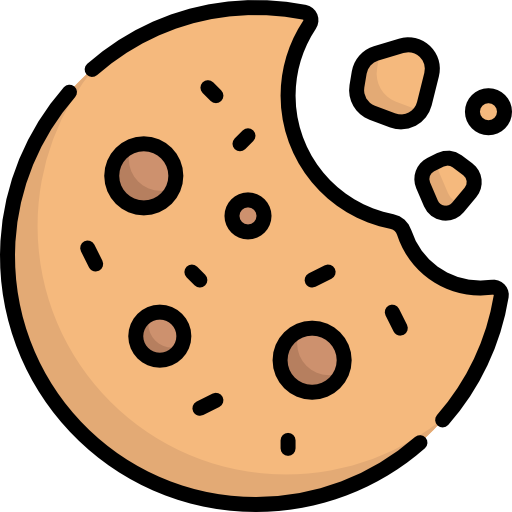
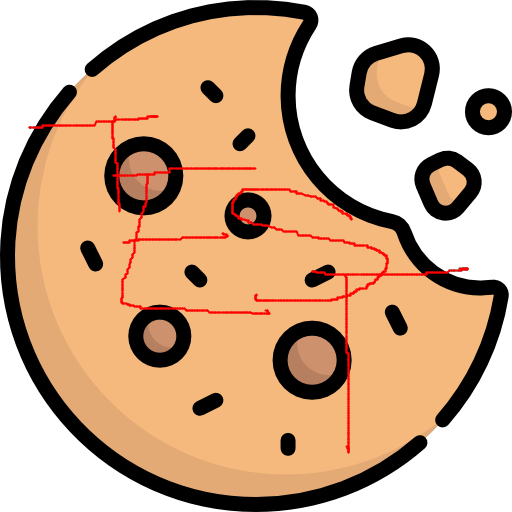
Resilient multi-day sync (retry/reconcile + honest reporting) and distinct TEST branding

diff --git a/tony-macro-tracker/frontend/index.html b/tony-macro-tracker/frontend/index.html
@@ -3,12 +3,12 @@
 <head>
 <meta charset="UTF-8">
 <meta name="viewport" content="width=device-width, initial-scale=1.0">
-<title>Macro Tracker</title>
+<title>Macro Tracker (TEST)</title>
 <link rel="manifest" href="/manifest.json">
-<meta name="theme-color" content="#7F77DD">
+<meta name="theme-color" content="#E8743B">
 <meta name="apple-mobile-web-app-capable" content="yes">
 <meta name="apple-mobile-web-app-status-bar-style" content="default">
-<meta name="apple-mobile-web-app-title" content="Macro Tracker">
+<meta name="apple-mobile-web-app-title" content="Macro Tracker (TEST)">
 <link rel="stylesheet" href="https://cdn.jsdelivr.net/npm/@tabler/icons-webfont@2.44.0/tabler-icons.min.css">
 <script src="https://cdnjs.cloudflare.com/ajax/libs/Chart.js/4.4.1/chart.umd.js"></script>
 <style>
@@ -476,11 +476,17 @@ async function getQueueLength() {
   return items.length;
 }
 
-async function processQueue() {
+const MAX_SYNC_ATTEMPTS = 5;
+
+// Returns { synced, failed, skipped, remaining, networkDown } so callers can report
+// honestly. Pass force=true (manual Sync) to retry items that have exhausted their
+// automatic attempts.
+async function processQueue(force = false) {
   const items = await dbGetAll(QUEUE_STORE);
-  if (!items.length) return true;
-  let allOk = true;
+  if (!items.length) return { synced: 0, failed: 0, skipped: 0, remaining: 0, networkDown: false };
+  let synced = 0, failed = 0, skipped = 0, networkDown = false;
   for (const item of items) {
+    if (!force && (item.attempts || 0) >= MAX_SYNC_ATTEMPTS) { skipped++; continue; }
     try {
       const res = await fetch(item.url, {
         method: item.method,
@@ -488,15 +494,48 @@ async function processQueue() {
         body: item.body ? JSON.stringify(item.body) : undefined
       });
       if (res.ok) {
-        await dbDelete(QUEUE_STORE, item.id);
-      } else {
-        allOk = false; break;
+        await dbDelete(QUEUE_STORE, item.id);          // synced OK
+        synced++;
+        continue;
       }
+      let body = ''; try { body = await res.text(); } catch (_) {}
+      if (/duplicate key|already exists/i.test(body)) {
+        await dbDelete(QUEUE_STORE, item.id);          // already on server — treat as done
+        synced++;
+        continue;
+      }
+      // Genuine rejection: keep the item, record attempt + reason, continue to the next.
+      // Do NOT break — one bad item must never stop a multi-day batch.
+      await dbPut(QUEUE_STORE, {
+        ...item,
+        attempts: (item.attempts || 0) + 1,
+        lastError: `HTTP ${res.status}${body ? ': ' + body.slice(0, 120) : ''}`
+      });
+      failed++;
     } catch (e) {
-      allOk = false; break;
+      // Network/connection error — Pi unreachable. Stop; items are fine, just retry later.
+      networkDown = true;
+      break;
     }
   }
-  return allOk;
+  const remaining = await getQueueLength();
+  return { synced, failed, skipped, remaining, networkDown };
+}
+
+// Single source of truth for post-sync feedback — honest about partial success.
+function reportSync(r) {
+  if (r.networkDown) {
+    setSyncStatus(r.remaining ? 'queued' : 'ok');
+    if (r.synced) showToast(`Synced ${r.synced} — connection dropped, ${r.remaining} left`);
+    return;
+  }
+  if (r.remaining === 0) {
+    setSyncStatus('ok');
+    if (r.synced) showToast(`Synced ${r.synced} change${r.synced > 1 ? 's' : ''}`);
+    return;
+  }
+  setSyncStatus('error');
+  showToast(`Synced ${r.synced}, ${r.remaining} couldn't sync — see Import tab`);
 }
 
 // ─── CONNECTIVITY ─────────────────────────────────────────────────────────────
@@ -522,17 +561,12 @@ async function onCameOnline() {
   isOnline = true;
   updateOfflineUI();
   setSyncStatus('syncing');
-  const ok = await processQueue();
-  if (ok) {
-    setSyncStatus('ok');
-    showToast('Back online — changes synced');
-    // Refresh current view with fresh server data
-    await loadFoods();
-    await loadDayEntries();
-    await cacheAllData();
-  } else {
-    setSyncStatus('error');
-  }
+  const r = await processQueue();
+  // Refresh the view with fresh server data regardless of partial failures.
+  await loadFoods();
+  await loadDayEntries();
+  await cacheAllData();
+  reportSync(r);
   updateOfflineUI();
 }
 
@@ -560,9 +594,9 @@ async function updateOfflineUI() {
 
 async function forceSync() {
   setSyncStatus('syncing');
-  const ok = await processQueue();
-  if (ok) { setSyncStatus('ok'); showToast('Synced successfully'); await loadDayEntries(); }
-  else { setSyncStatus('error'); showToast('Sync failed — still offline?'); }
+  const r = await processQueue(true);   // manual: retry even attempt-exhausted items
+  await loadDayEntries();
+  reportSync(r);
   updateOfflineUI();
 }
 
@@ -570,11 +604,18 @@ async function showQueue() {
   const items = await dbGetAll(QUEUE_STORE);
   const el = document.getElementById('queue-display');
   if (!items.length) { el.textContent = 'No pending changes.'; return; }
-  el.innerHTML = items.map(i => `
-    <div style="padding:6px 0;border-bottom:0.5px solid var(--border-light);display:flex;justify-content:space-between">
-      <span>${i.method} ${i.url.replace(API_BASE,'')}</span>
-      <span style="color:var(--text-tertiary);font-size:11px">${new Date(i.timestamp).toLocaleTimeString()}</span>
-    </div>`).join('');
+  el.innerHTML = items.map(i => {
+    const tries = i.attempts || 0;
+    const warn = tries > 0
+      ? `<div style="color:var(--text-danger);font-size:11px;margin-top:2px">⚠ ${tries} failed attempt${tries > 1 ? 's' : ''}${i.lastError ? ' — ' + i.lastError : ''}</div>`
+      : '';
+    return `<div style="padding:6px 0;border-bottom:0.5px solid var(--border-light)">
+      <div style="display:flex;justify-content:space-between">
+        <span>${i.method} ${i.url.replace(API_BASE,'')}</span>
+        <span style="color:var(--text-tertiary);font-size:11px">${new Date(i.timestamp).toLocaleTimeString()}</span>
+      </div>${warn}
+    </div>`;
+  }).join('');
   document.getElementById('sync-now-btn').style.display = isOnline ? 'inline-flex' : 'none';
 }
 
@@ -925,8 +966,17 @@ async function addEntry() {
     if (data) {
       const i = dayEntries.findIndex(e => e.id === entry.id);
       if (i > -1) { dayEntries[i] = data; await saveSnapshot(snapshotKey, dayEntries); renderLog(); }
+      showToast('Entry added');
+    } else {
+      // POST failed (Pi unreachable mid-add). apiFetch flipped us offline —
+      // queue the entry instead of silently losing it.
+      const i = dayEntries.findIndex(e => e.id === entry.id);
+      if (i > -1) dayEntries[i]._pending = true;
+      await enqueue(API_BASE + '/log', 'POST', entry);
+      renderLog();
+      showToast('Saved offline — will sync when home');
+      updateOfflineUI();
     }
-    showToast('Entry added');
   } else {
     await enqueue(API_BASE + '/log', 'POST', entry);
     showToast('Saved offline — will sync when home');
@@ -1209,6 +1259,11 @@ setInterval(async () => {
   if (!isOnline) {
     const serverUp = await checkConnectivity();
     if (serverUp) onCameOnline();
+  } else if ((await getQueueLength()) > 0) {
+    // Online but items still pending — retry them (bounded by per-item attempts).
+    const r = await processQueue();
+    reportSync(r);
+    updateOfflineUI();
   }
 }, 30000);
 
@@ -1228,6 +1283,15 @@ async function init() {
   await loadDayEntries();
 
   document.getElementById('loading-overlay').style.display = 'none';
+
+  // If we opened already-online with unsynced offline changes (queued over several
+  // days), flush them now — init() previously never did this.
+  if (isOnline && (await getQueueLength()) > 0) {
+    const r = await processQueue();
+    await loadDayEntries();
+    reportSync(r);
+    updateOfflineUI();
+  }
 
   // Warm the offline cache in the background (full log for History + past days)
   cacheAllData();

diff --git a/tony-macro-tracker/frontend/sw.js b/tony-macro-tracker/frontend/sw.js
@@ -1,4 +1,4 @@
-const CACHE_NAME = 'macro-tracker-prod-v1';
+const CACHE_NAME = 'macro-tracker-prod-v2';
 const OFFLINE_DB = 'macro-tracker-offline';
 const OFFLINE_QUEUE_STORE = 'sync-queue';
 const SNAPSHOT_STORE = 'data-snapshot';